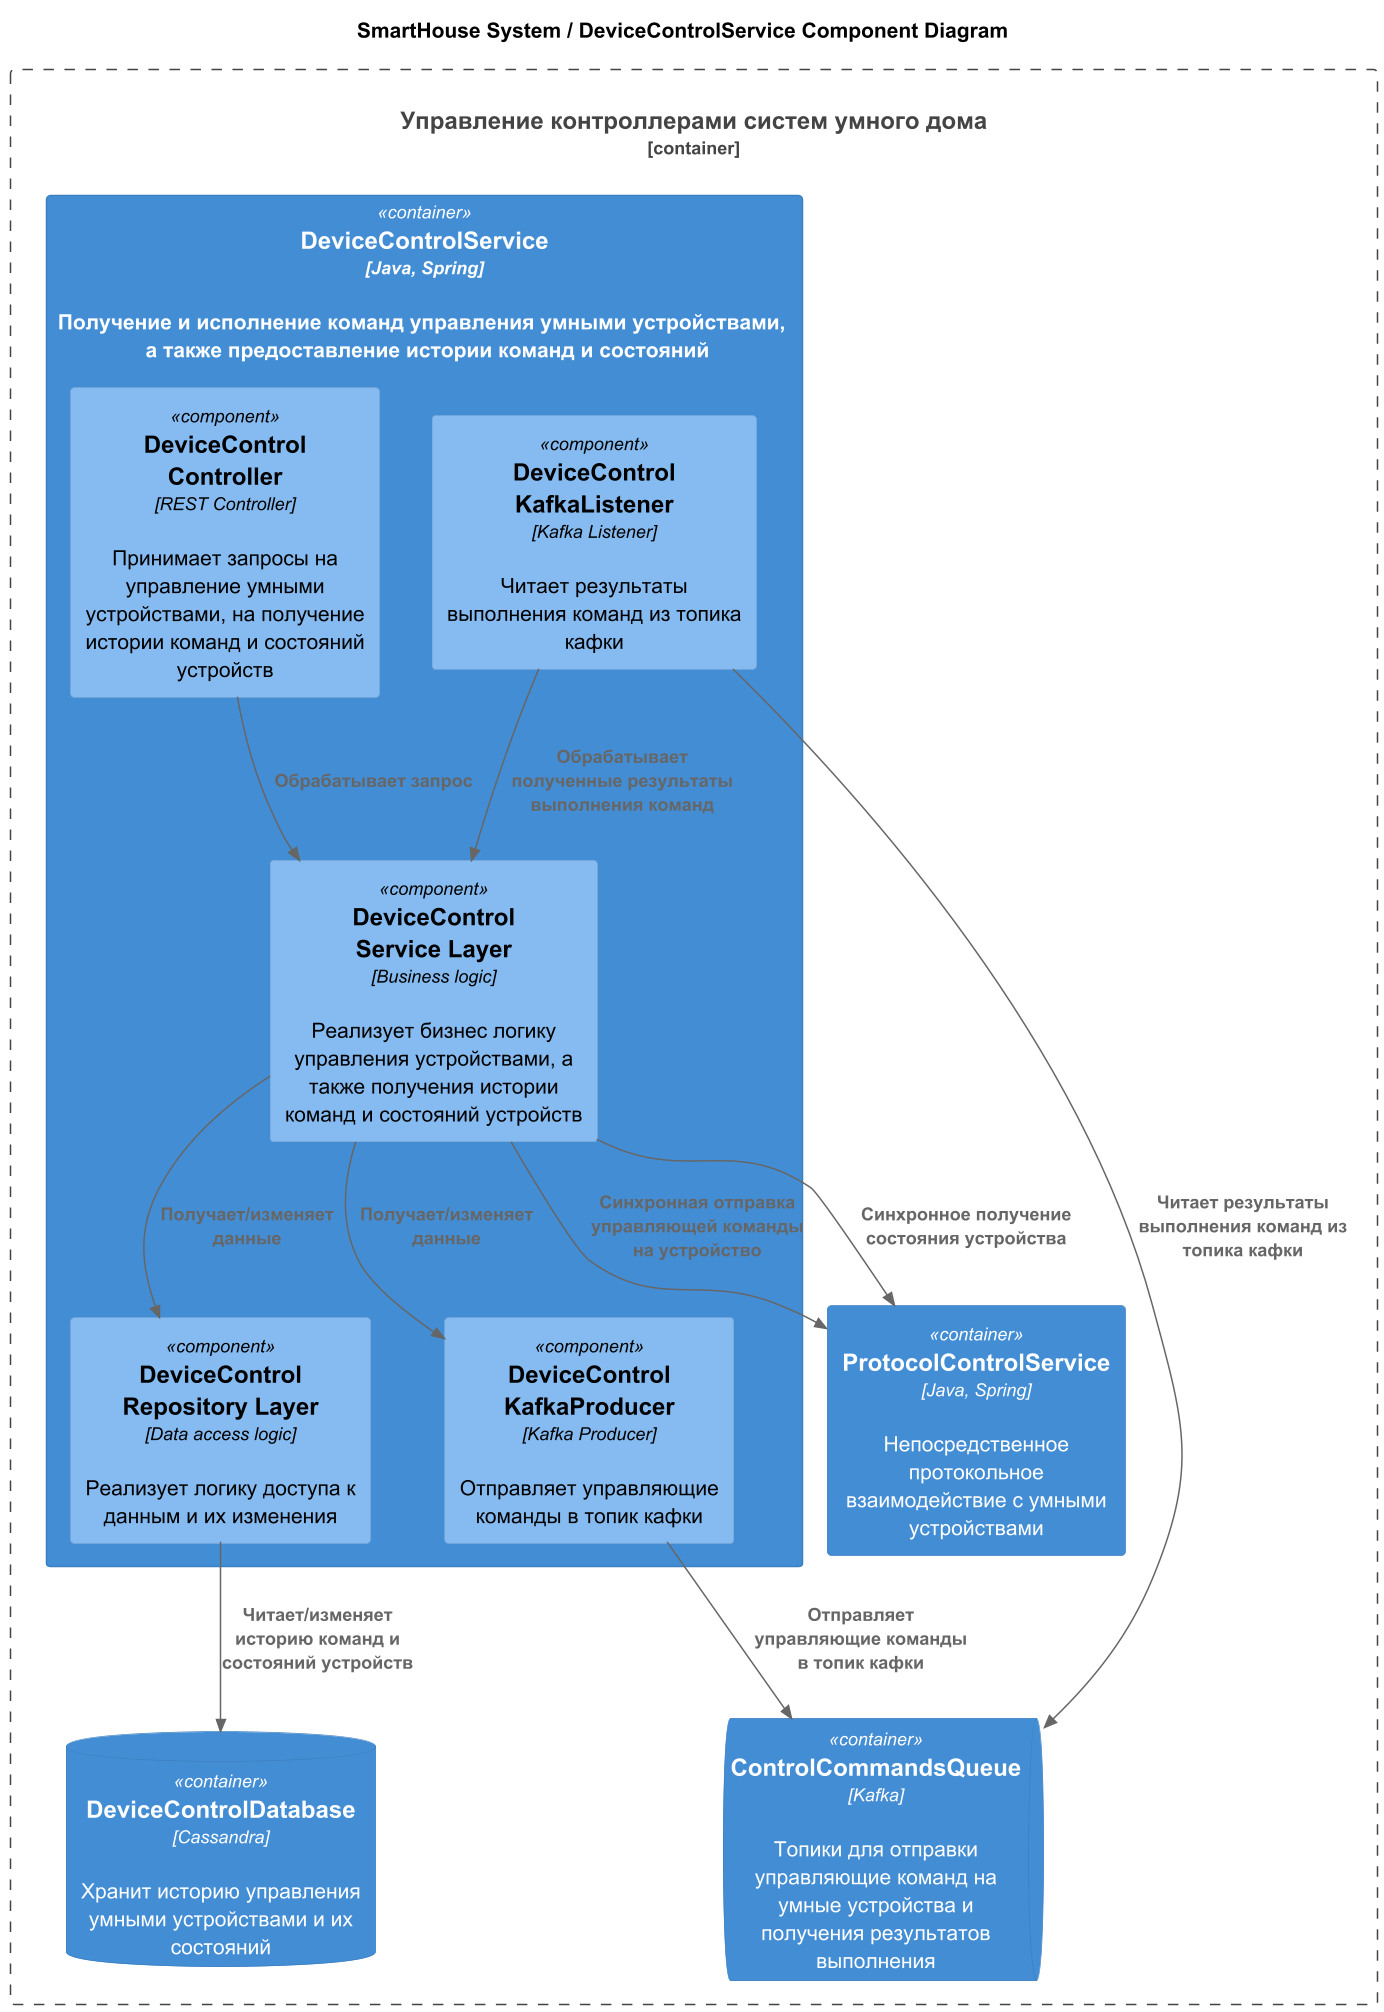
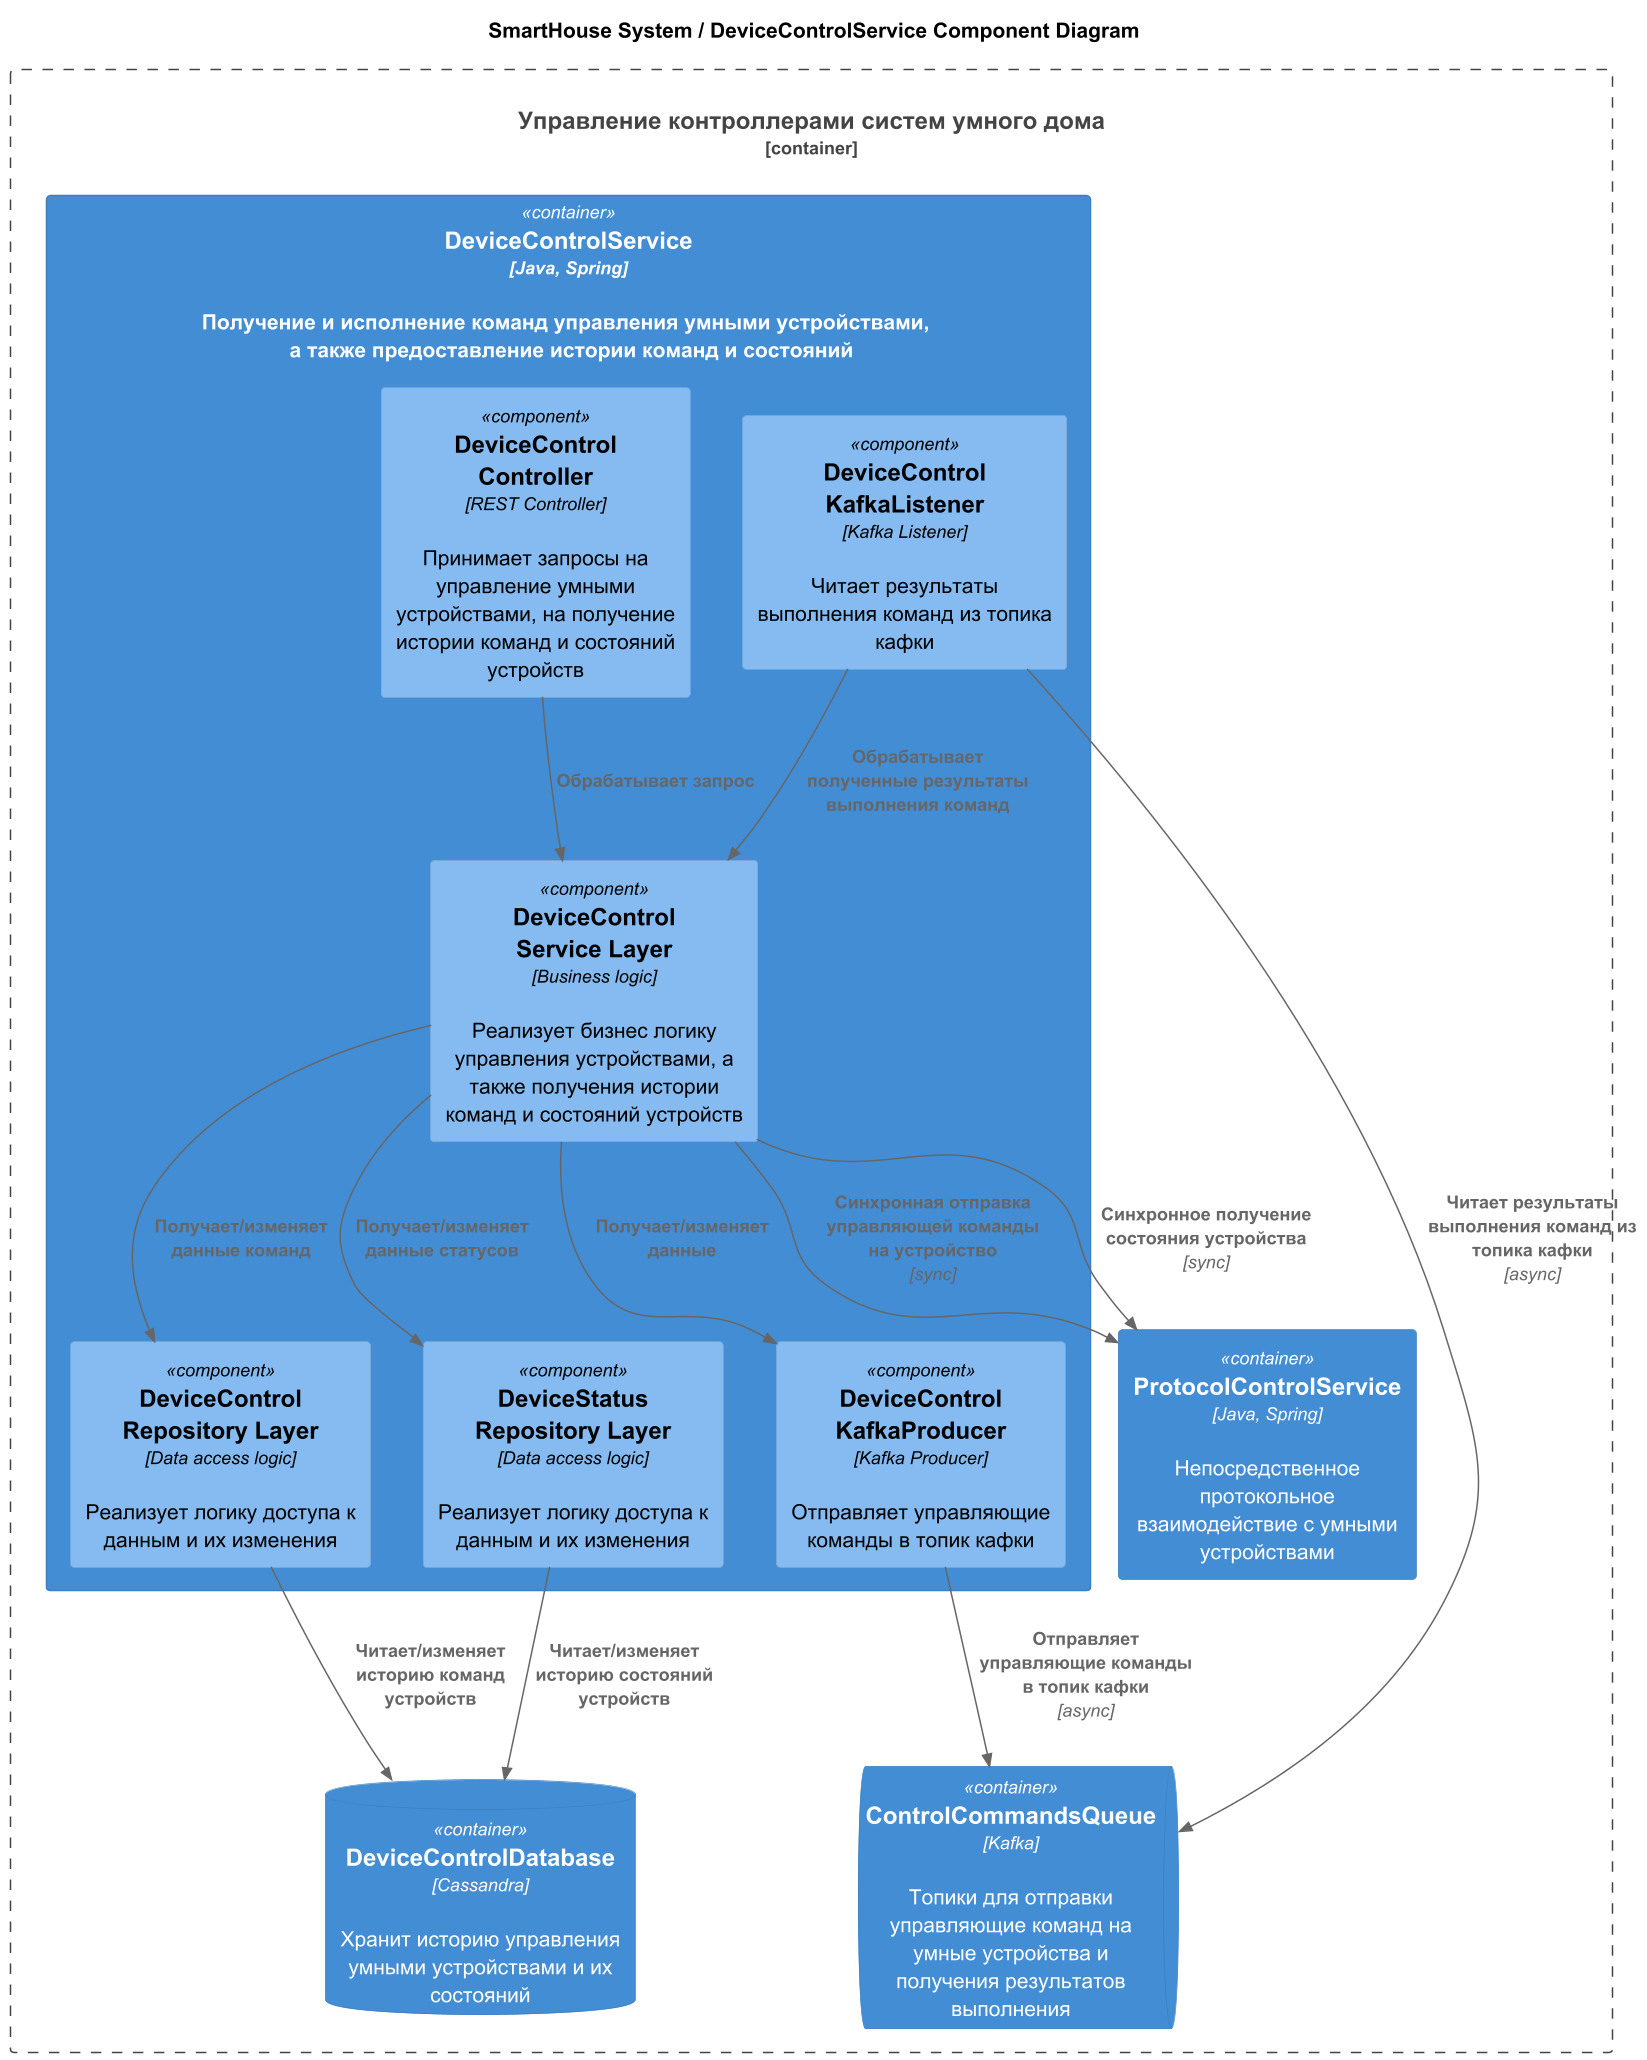
task 2 - code diagram

Changed region(s): [[0.0, 0.0308, 1.0, 1.0], [0.2796, 0.0, 0.7146, 0.0924], [0.0, 0.9861, 0.0311, 1.0]]

diff --git a/Project_template.md b/Project_template.md
@@ -101,7 +101,11 @@
 
 **Диаграмма кода (Code)**
 
-Добавьте одну диаграмму или несколько.
+Для сервиса DeviceControlService домена Управление контроллерами систем умного дома:
+
+[Диаграмма кода сервиса DeviceControlService](diagrams/code/DeviceControlService_Code.jpg)
+
+![Диаграмма кода сервиса DeviceControlService](diagrams/code/DeviceControlService_Code.jpg)
 
 # Задание 3. Разработка ER-диаграммы
 
